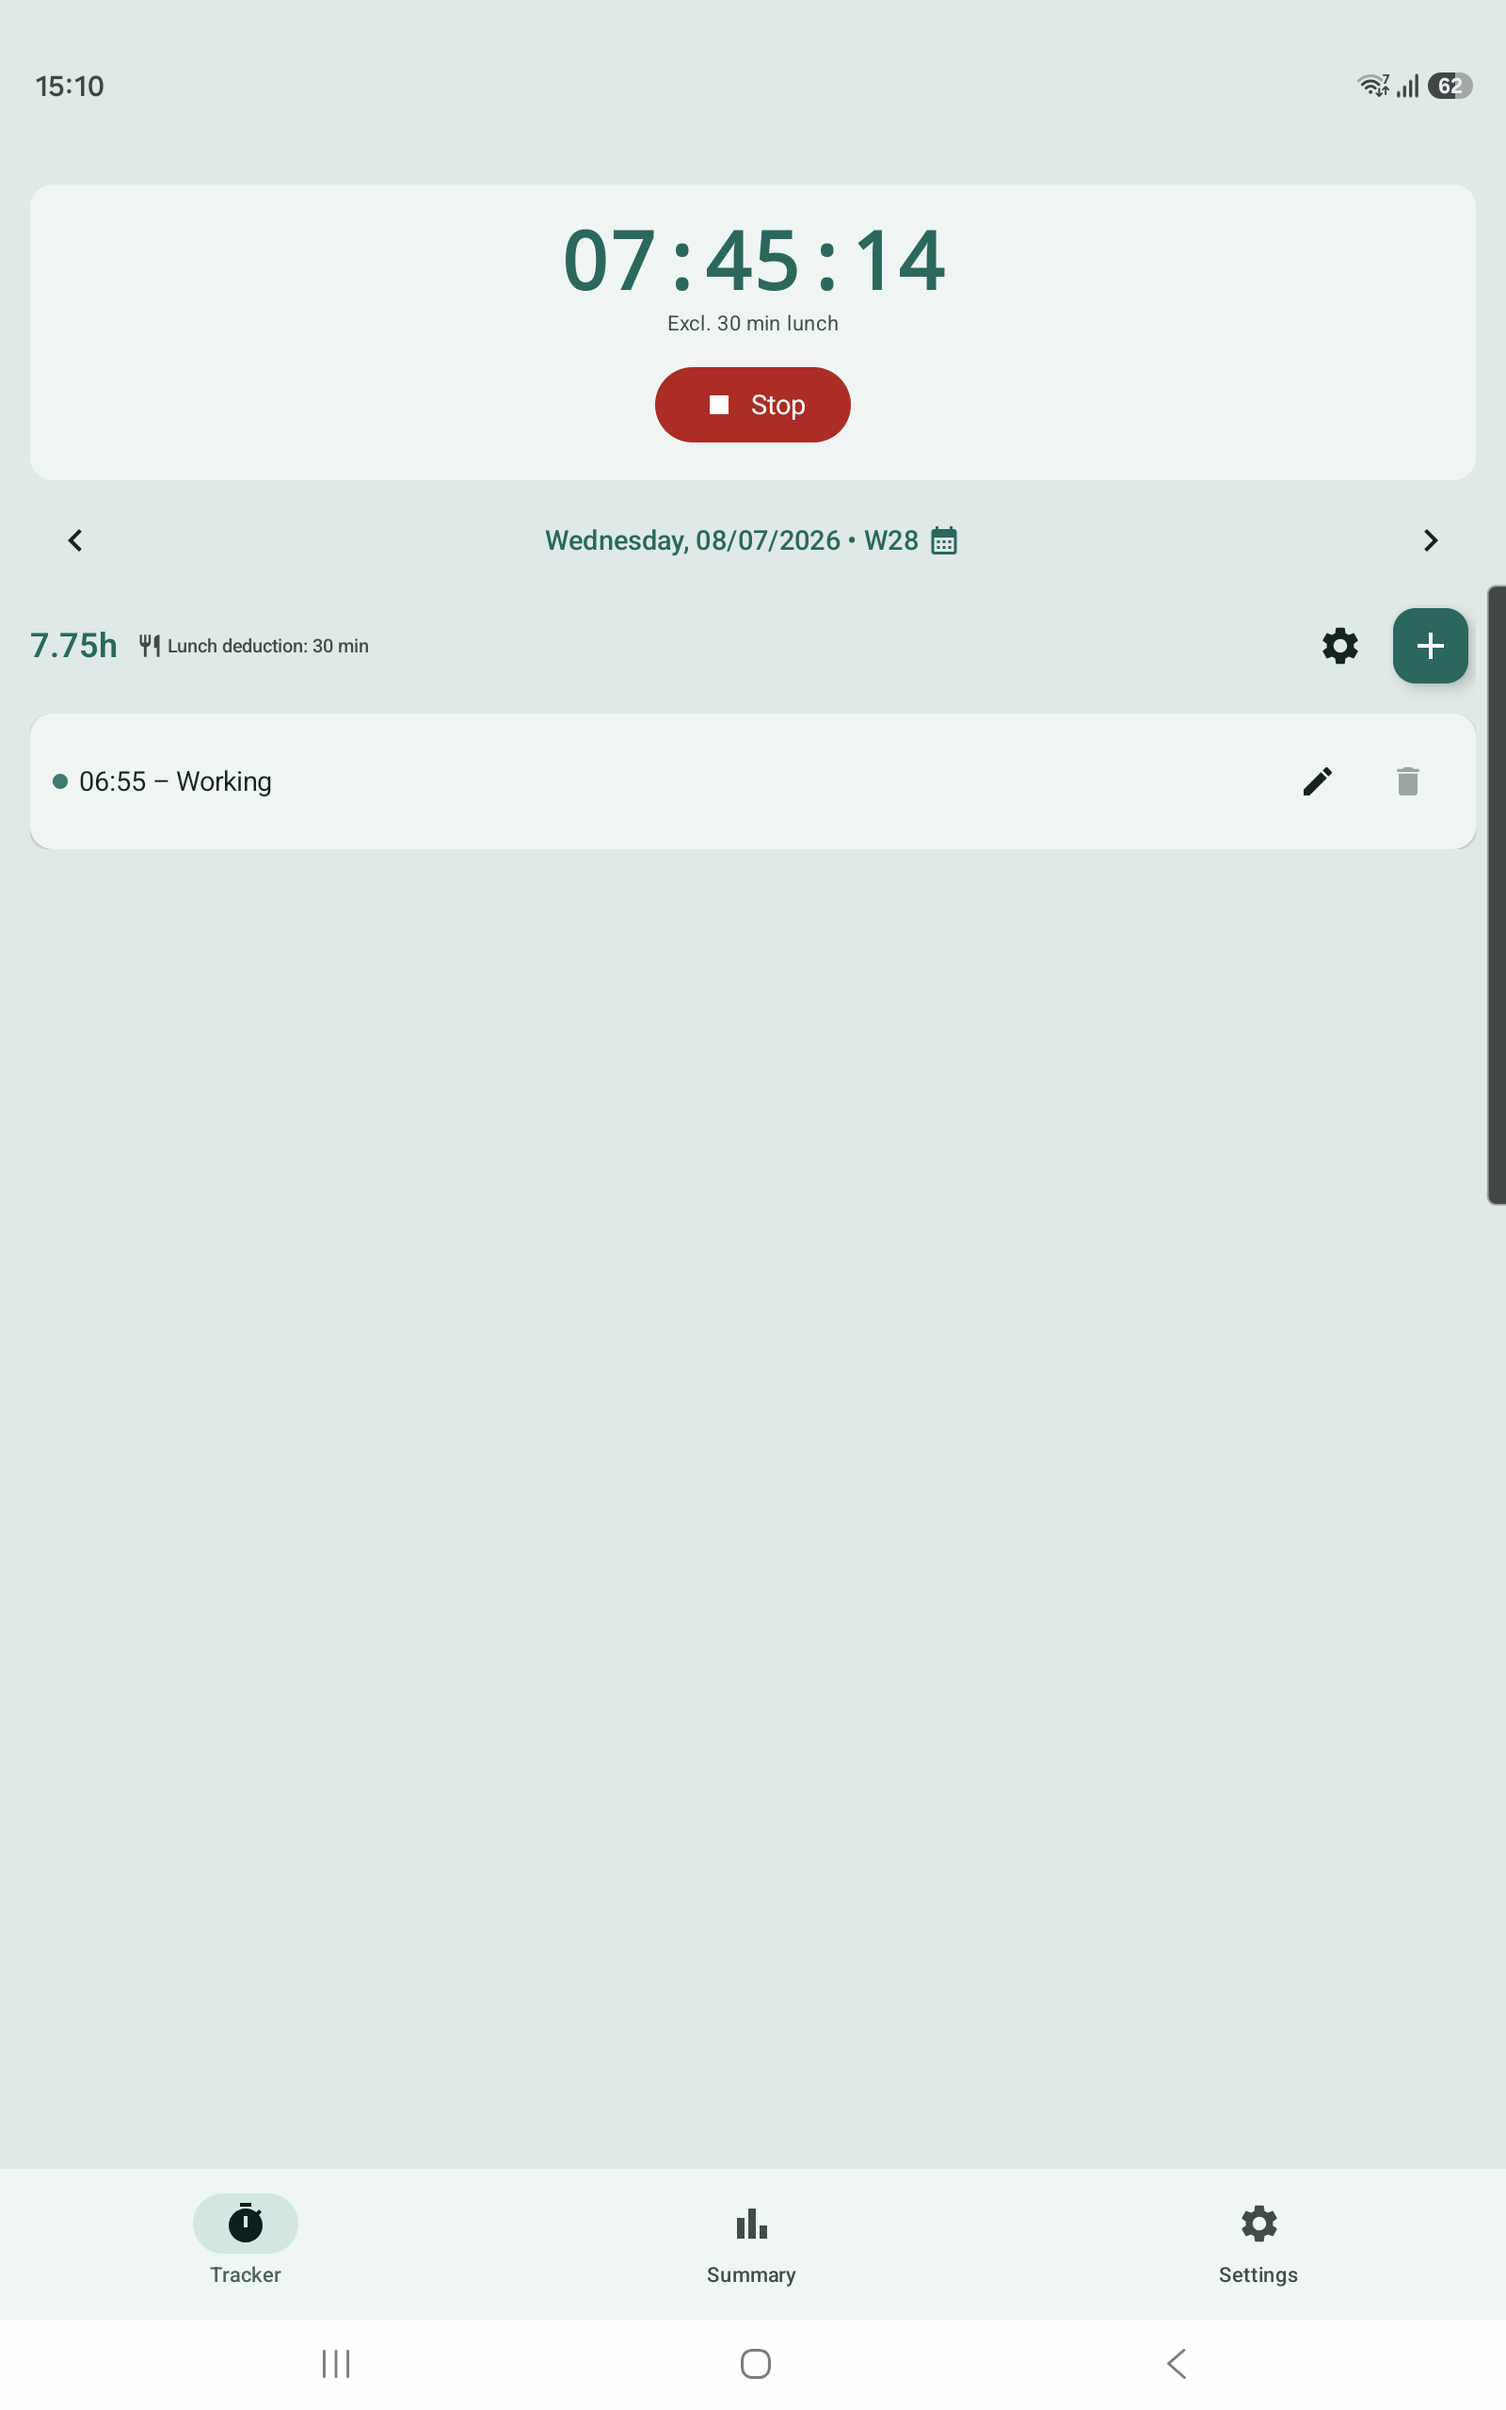
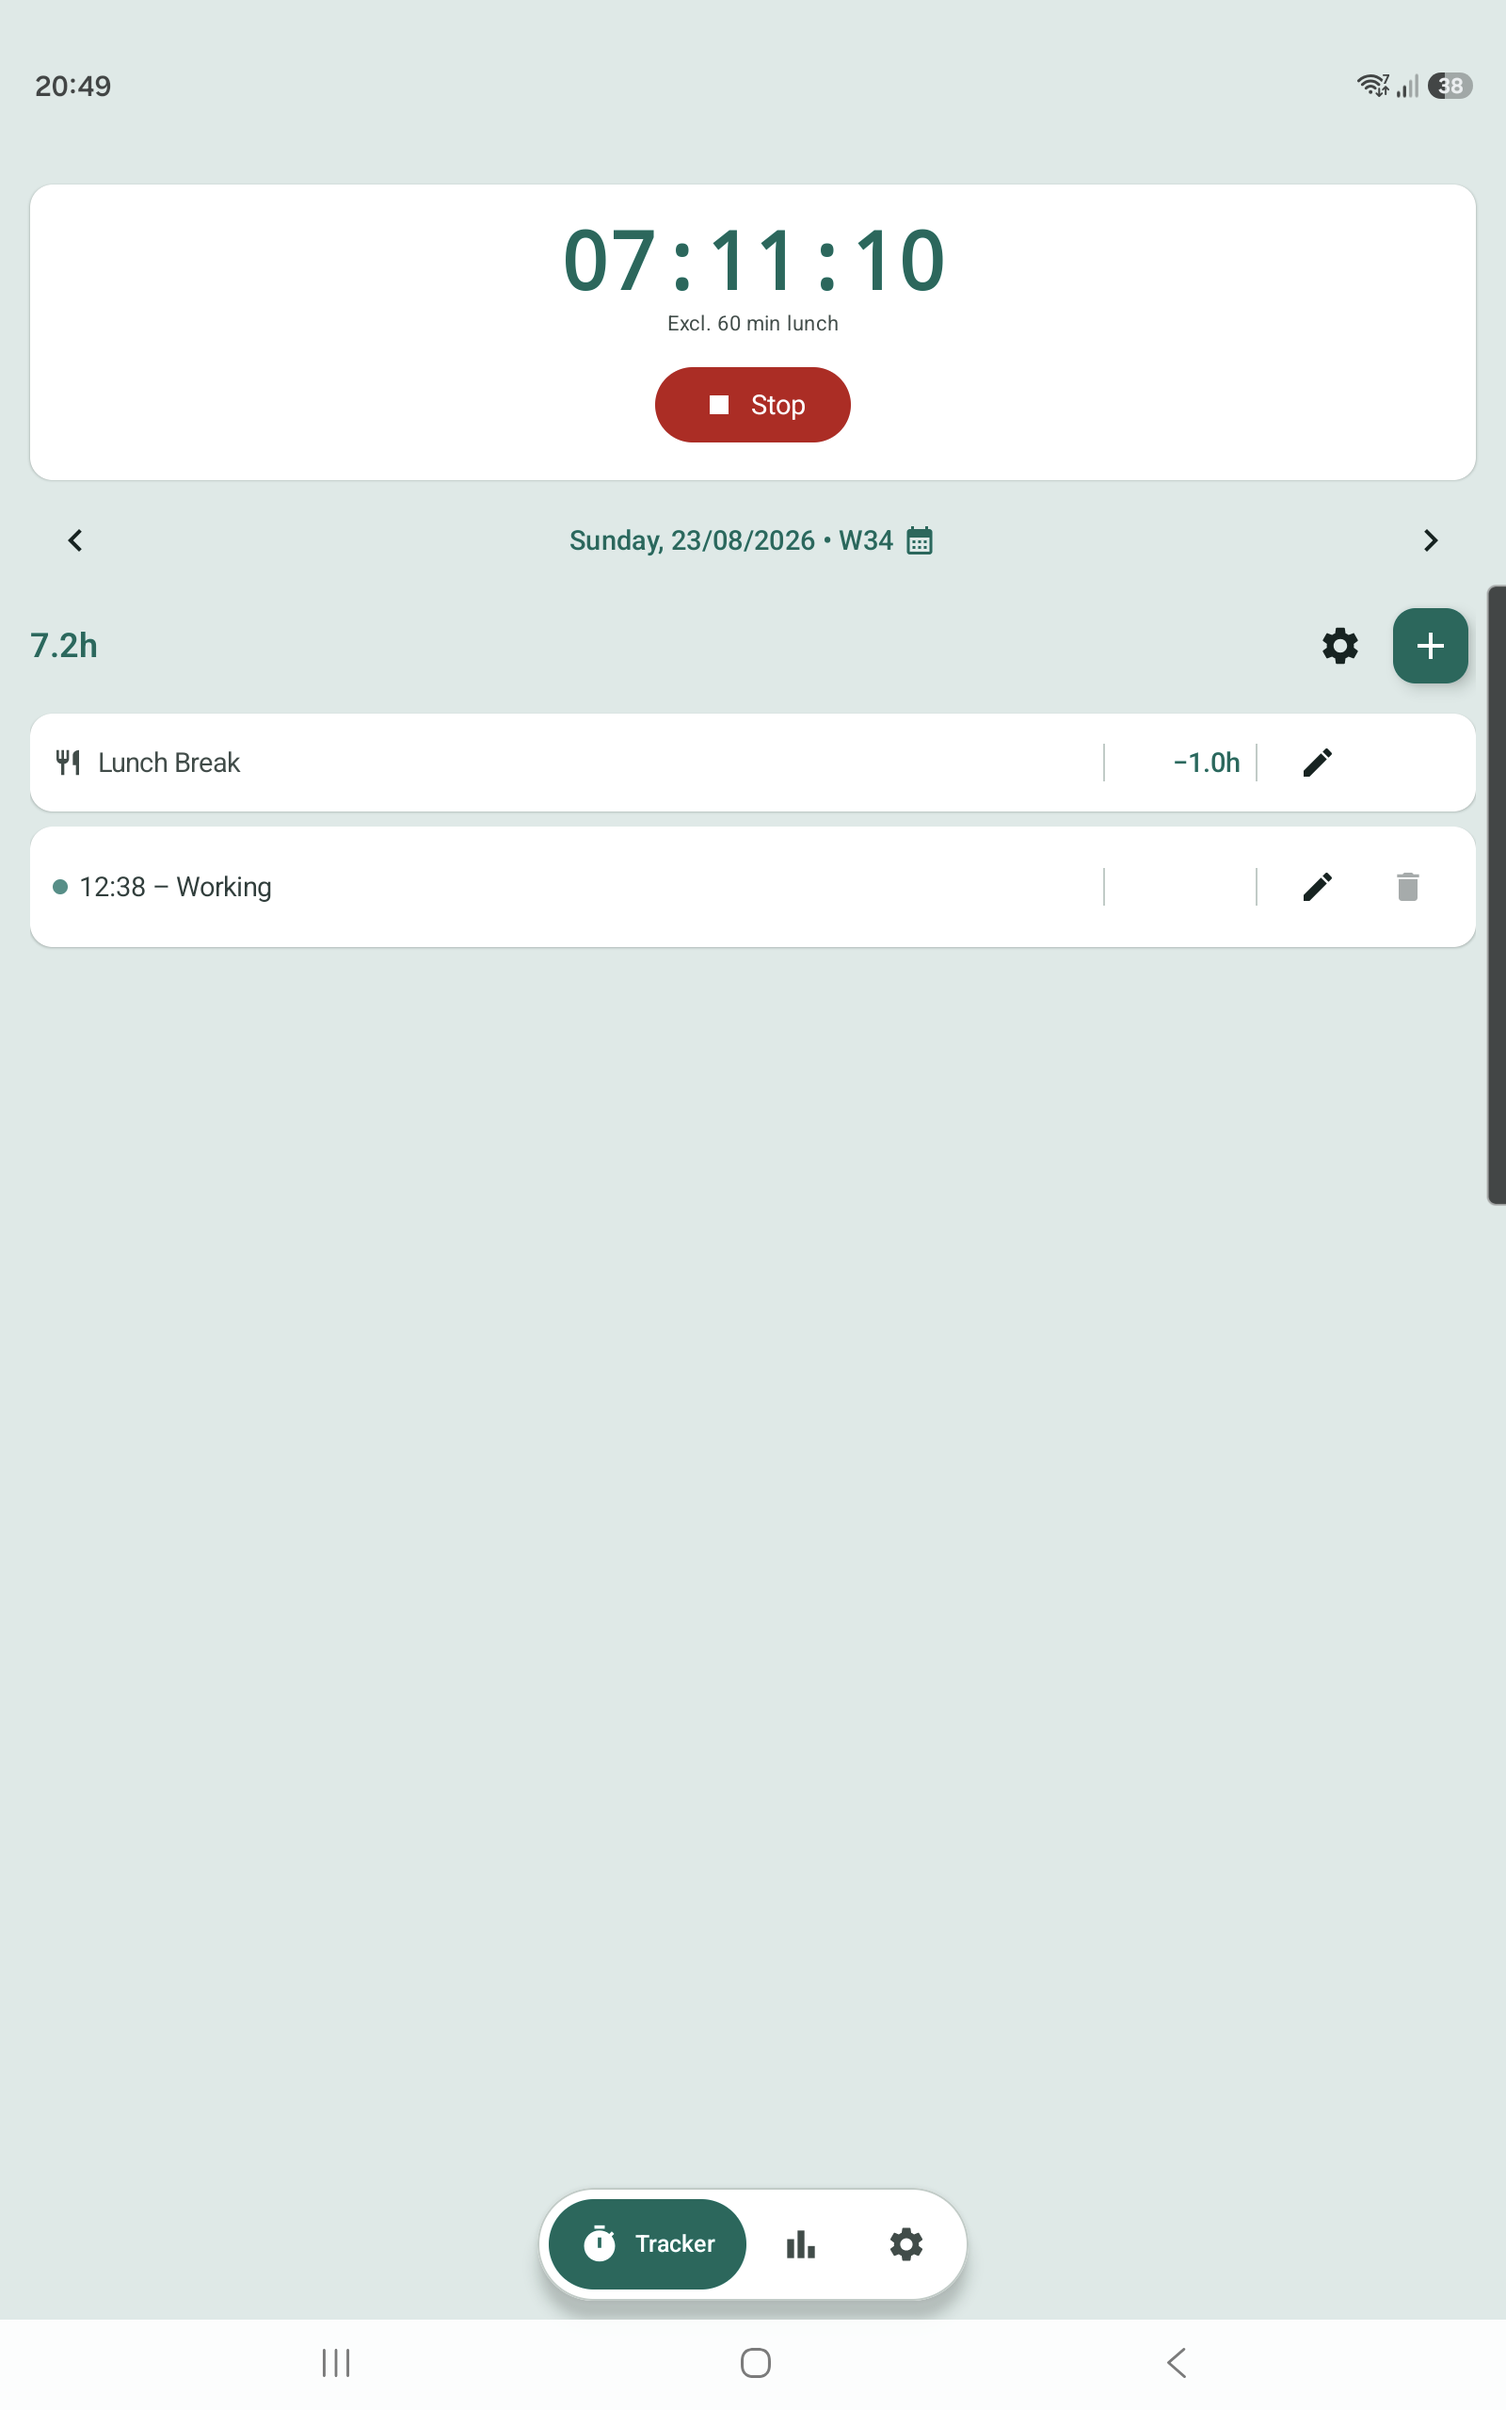
Recapture all screenshots on 1.6.0
Phone set replaced, and 03/04 renamed: the old day-settings and calendar-picker
give way to the settings list and a section screen, since the settings rebuild
is what this release is.

Tablet sets recaptured on the phone under a display override -- 1200x1920 at
240dpi and 1600x2560 at 320dpi, both 800x1280 dp, which is how the originals
were made. Recorded the density first; there was no Screen zoom override to
preserve this time, so reset was safe.

All light mode, English with the country set to United Kingdom, and captured
under SystemUI demo mode so the status bar carries no notification icons --
restored to dark/Sweden with demo mode off afterwards.

diff --git a/store-listing.md b/store-listing.md
@@ -60,7 +60,21 @@ Privacy policy: https://jhcode-apps.github.io/jobba/privacy-policy
 ## Screenshots
 
 Set in `assets/screenshots/` (teal theme, light mode, English/UK): phone (`01`–`05`),
-`tablet7/` (1200×1920), `tablet10/` (1600×2560). Most were captured on **1.1.x**;
-`02-summary.png` was recaptured on **1.2.0** and shows the note icon on the 08/07 day.
-Recapture in **light mode + English (UK country)** after any visual change — see the
-store-screenshots capture notes.
+`tablet7/` (1200×1920), `tablet10/` (1600×2560). All recaptured on **1.6.0**, the
+release that rebuilt the shell.
+
+Phone set: `01-tracker-running`, `02-summary`, `03-settings`, `04-hours`,
+`05-backup-settings`. `03` and `04` replace the old `03-day-settings` and
+`04-calendar-picker` — the settings rebuild is what 1.6.0 is about, so the list
+of cards and a section screen earn those slots.
+
+The tablet sets are captured on the phone with a display override, not on a
+tablet: `wm size 1200x1920` + `wm density 240`, and `wm size 1600x2560` +
+`wm density 320`. Both come out 800×1280 dp. Record `wm density` BEFORE
+overriding — Samsung's Screen zoom is itself a density override and `reset`
+wipes it.
+
+Recapture in **light mode + English (UK country)** after any visual change — see
+the store-screenshots capture notes. Give the app a few seconds after a restart
+before capturing the Summary: it can render one frame with default date
+formatting before the stored settings arrive.
